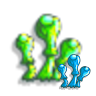
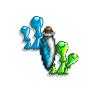
Improved alchemy visuals, removed old code

diff --git a/client/src/constants/items.js b/client/src/constants/items.js
@@ -1,9 +1,8 @@
 export const potionsList = [
     {
         id: 1,
-        type: "Ingredient",
         name: "Potion of Health",
-        description: "Adds 50 HP for 10 minutes. (A creature may only have one active potion at a time.)",
+        description: "Adds 50 HP for 10 minutes. (A creature may only have one active potion at a time, and if you change stages, you must regenerate your bonus.)",
         imgPath: "img/potion/potion1.png",
         duration: 600000,
         hpMod: 50,
@@ -11,9 +10,8 @@ export const potionsList = [
     },
     {
         id: 2,
-        type: "Ingredient",
         name: "Potion of Mana",
-        description: "Adds 50 MP for 10 minutes. (A creature may only have one active potion at a time.)",
+        description: "Adds 50 MP for 10 minutes. (A creature may only have one active potion at a time, and if you change stages, you must regenerate your bonus.)",
         imgPath: "img/potion/potion2.png",
         duration: 600000,
         hpMod: 0,
@@ -24,21 +22,18 @@ export const potionsList = [
 export const ingredientsList = [
     {
         id: 1,
-        type: "Ingredient",
         name: "Green Mushroom",
         description: "Used in 'Potion of Health', and 'Potion of Mana'. (15% chance to drop from non-boss enemies.)",
         imgPath: "img/ingredient/ingredient1.png",
     },
     {
         id: 2,
-        type: "Ingredient",
         name: "Red Mushroom",
         description: "Used in 'Potion of Health'. (10% chance to drop from non-boss enemies.)",
         imgPath: "img/ingredient/ingredient2.png",
     },
     {
         id: 3,
-        type: "Ingredient",
         name: "Blue Mushroom",
         description: "Used in 'Potion of Mana'. (10% chance to drop from non-boss enemies.)",
         imgPath: "img/ingredient/ingredient3.png",

diff --git a/client/src/components/menu.jsx b/client/src/components/menu.jsx
@@ -561,7 +561,7 @@ function Menu({
                                     className="recipe_option"
                                     key={recipe.id}
                                 >
-                                    <button className="game_button_small margin_small" onClick={() => { createPotion(recipe.potionProductId) }} >Create</button>
+                                    <button className="game_button_small margin_small" onClick={() => { createPotion(recipe.potionProductId) }} >Create<br/>Potion</button>
                                     <img onClick={() => alert(recipe.description)}
                                         className="recipe_option_img"
                                         src={recipe.imgPath}
